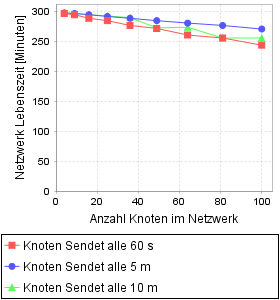
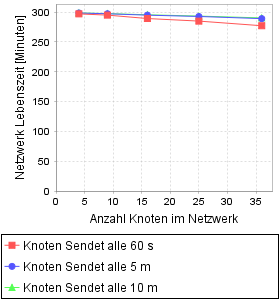
DSDV-Lebenszeitanalyse implementiert

diff --git a/src/Simulator/Main.java b/src/Simulator/Main.java
@@ -46,7 +46,7 @@ public class Main {
 		//dsdvEvaluationUnit.evaluateSpeedAnalysisWhenNetworkStarts();
 		//dsdvEvaluationUnit.evaluateSpeedAnalysis();
 		//dsdvEvaluationUnit.evaluateCostAnalysis();
-		dsdvEvaluationUnit.evaluateNetworkLivetimeStaticSendBehaviorOneDestination(1);
+		dsdvEvaluationUnit.evaluateNetworkLivetimeStaticSendBehaviorOneDestination(8);
 		//dsdvEvaluationUnit.evaluateNetworkPartitioningAnalysis(100);
 		
 		

diff --git a/src/DSDV/DsdvNetworkNode.java b/src/DSDV/DsdvNetworkNode.java
@@ -8,7 +8,7 @@ import SimulationNetwork.PayloadMessage;
 
 public class DsdvNetworkNode extends NetworkNode{
 	
-	private static final long UPDATE_INTERVAL = 5*60000;	//in ms
+	private static final long UPDATE_INTERVAL = 10*60000;	//in ms
 	//private static final long UPDATE_INTERVAL = 30000;	//in ms -> every 30 seconds
 	private long lastUpdate;
 	private LinkedList<ForwardTableEntry> forwardTable;
